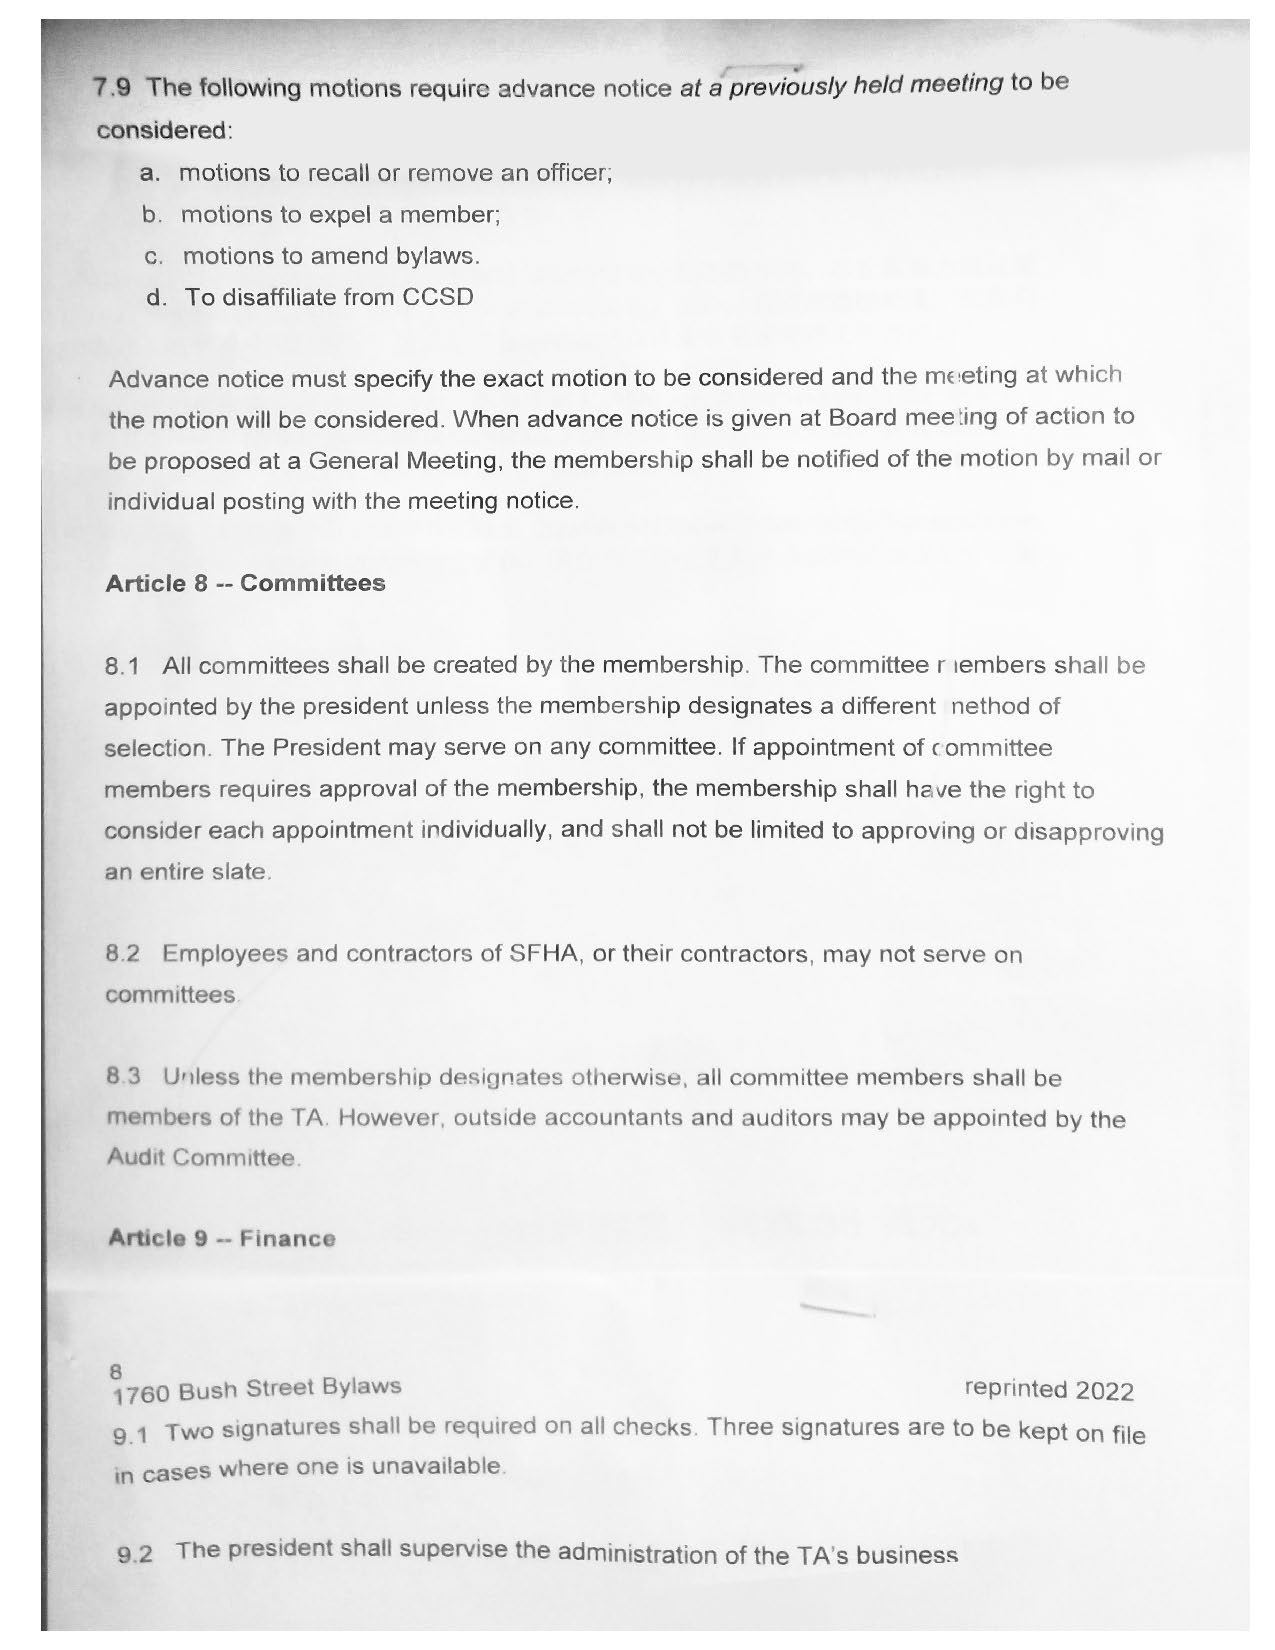
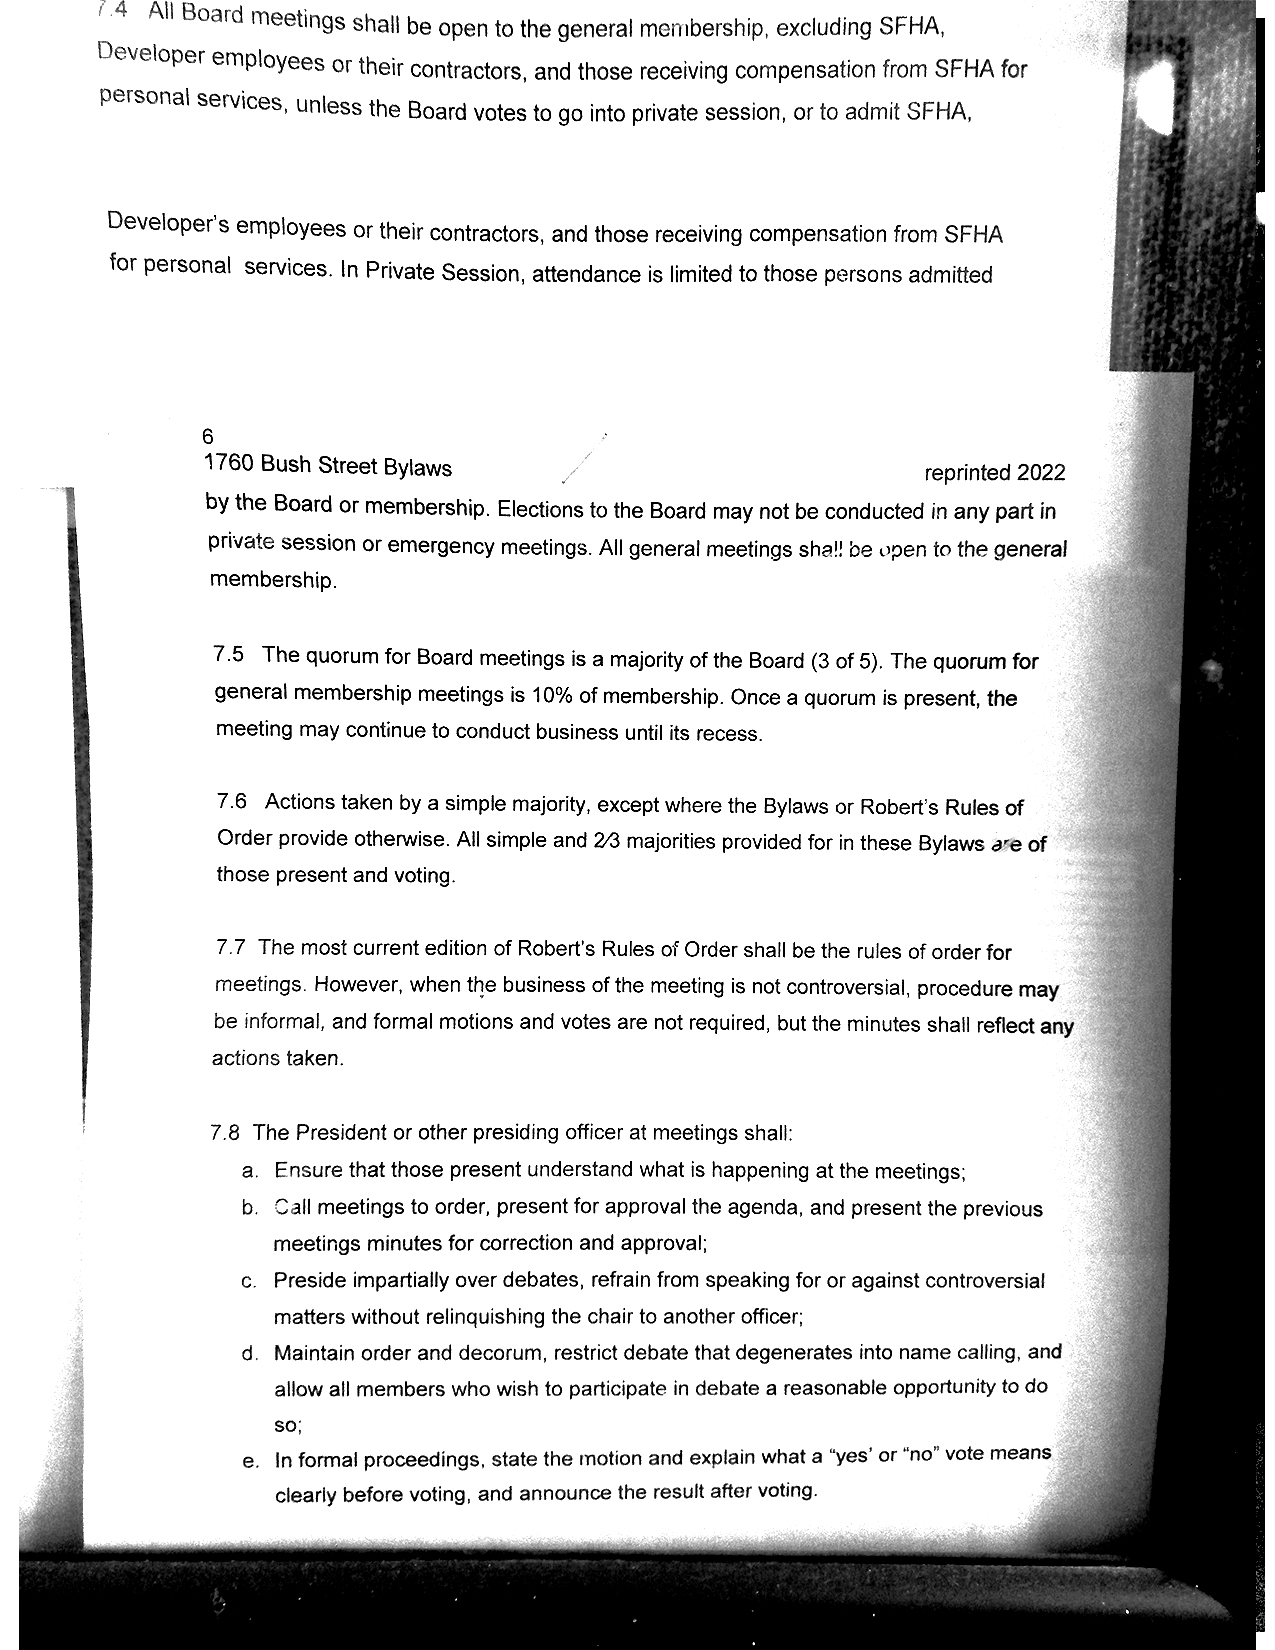
added files
updated info

diff --git a/MMMdearTenant01.html b/MMMdearTenant01.html
@@ -212,7 +212,10 @@ a, alert, alert-info {
 <!-- end letter -->
 
 <!-- Just the Facts -->
+<div class="container">
 
+  
+</div>
  <!-- 01 -->
 <div class="container">
   <div class="factCHECK">
@@ -335,9 +338,9 @@ a, alert, alert-info {
     <p>There was no secret ballot. We all saw Margo open and count them before putting them in the Ballot Box. That disqualifies as a secret ballot.</p>
     <p>The Ballot Box cost the Tenant Association $500. Why did Margo count the votes before putting them in the Ballot Box?</p>
     <p>Leesa was paid for the last Nomination meeting. Will Margo pay herself for this Election meeting?</p>
-    <p>Margo posted the results of the Election and illegally fired Angel the same night. When asked about it, Angel said "No comment." As a Resident who's known Margo for some time now, this is what Margo does when people challenge her or don't agree with everything she does.</p>
+    <p>Margo posted the results of the Election & illegally fired Angel the same night. When asked about it, Angel said "No comment." As a Resident who's known Margo for some time now, this is what Margo does when people challenge her or don't agree with everything she does.</p>
     <ul>
-      <li>"Firing" Angel actually violates your rights to a free and fair election.<br /><span style="font-style: italic;">Was the firing because Margo cannot bend Angel to her will?</span></li>
+      <li>"Firing" Angel actually violates your rights to a free and fair election.<br /><span style="font-style: italic;">Was the firing because Angel challenged Margo's autocratic governing style?</span></li>
       <li>Margo won't allow Angel to have the bank statements in order to do the Ledger, so he cannot be held accountable for not performing Treasurer duties</li>
       <li>Margo is targeting me because<br /><span style="font-style: italic;">I had questions about her RCA Proposal that went unanswered, so I told her I could not endorse it without learning more</span></li>
     </ul>
@@ -361,8 +364,8 @@ a, alert, alert-info {
     </div>
   </div><div class="row"><p>&nbsp;</p></div>
 
-  <!-- 13 -->
-   <a id="13"></a>
+  <!-- 10b -->
+   <a id="10b"></a>
    <div class="factCHECK">
     <h4><strong>What is Canvassing?</strong></h4>
     <p><strong>Unprotected Canvasing is allowed</strong> at 1760 Bush. Until an official policy is established, anyone can knock on your door claiming to be part of the Tenant's Association and offer you gifts or other rewards for supporting a particular action of the TA or in consideration for a candidate .</p>
@@ -417,35 +420,16 @@ a, alert, alert-info {
       <a href="#022"><button type="button" class="btn btn-warning" style="box-shadow: 0 0 6px;">BACK TO LETTER</button></a>
     </div>
   </div><div class="row"><p>&nbsp;</p></div>
-  <div class="factCHECK">
-    <h4>here</h4>
-    <p>here</p>
-    <div class="text-center">
-      <a href="#022"><button type="button" class="btn btn-warning" style="box-shadow: 0 0 6px;">BACK TO LETTER</button></a>
-    </div>
-  </div><div class="row"><p>&nbsp;</p></div>
-  <div class="factCHECK">
-    <h4>here</h4>
-    <p>here</p>
-    <div class="text-center">
-      <a href="#022"><button type="button" class="btn btn-warning" style="box-shadow: 0 0 6px;">BACK TO LETTER</button></a>
-    </div>
-  </div><div class="row"><p>&nbsp;</p></div>
-  <div class="factCHECK">
-    <h4>here</h4>
-    <p>here</p>
-    <div class="text-center">
-      <a href="#022"><button type="button" class="btn btn-warning" style="box-shadow: 0 0 6px;">BACK TO LETTER</button></a>
-    </div>
-  </div><div class="row"><p>&nbsp;</p></div>
-  <div class="factCHECK">
-    <h4>here</h4>
-    <p>here</p>
-    <div class="text-center">
-      <a href="#022"><button type="button" class="btn btn-warning" style="box-shadow: 0 0 6px;">BACK TO LETTER</button></a>
-    </div>
-  </div>
 
+  <!-- saving one for template 
+  <div class="factCHECK">
+    <h4>here</h4>
+    <p>here</p>
+    <div class="text-center">
+      <a href="#022"><button type="button" class="btn btn-warning" style="box-shadow: 0 0 6px;">BACK TO LETTER</button></a>
+    </div>
+  </div><div class="row"><p>&nbsp;</p></div> -->
+  
 
 </div>
 
@@ -458,12 +442,7 @@ text-align: center; background-color: #999999; color: white; margin-top: 40px; m
   </div>
   <div class="container" style="text-align: center">
     <p><br /><a href="mailto:wethepeopleof1760@gmail.com" style="color: white;">wethepeopleof1760@gmail.com</a></p>
-
   </div>
 </div>
-
-</p>
-
-
 </body>
 </html>

diff --git a/TAdocs/1760_Bylaw.html b/TAdocs/1760_Bylaw.html
@@ -49,14 +49,12 @@
             <p>&nbsp;</p>
             <p><a href="#" target="_new"><img src="../imgz1760/bylaws05282024/May24_posted_pg_05.jpg" alt="" style="max-width: 100%; box-shadow: 0 0 9px;"></a></p>
             <p>&nbsp;</p>
-            <hr />
-            <p>Articles 7 - Missing Sections 7.4, 7.5, 7.6, 7.7, 7.8</p>
-            <hr />
             <p><a href="#" target="_new"><img src="../imgz1760/bylaws05282024/May24_posted_pg_06.jpg" alt="" style="max-width: 100%; box-shadow: 0 0 9px;"></a></p>
             <p>&nbsp;</p>
             <p><a href="#" target="_new"><img src="../imgz1760/bylaws05282024/May24_posted_pg_07.jpg" alt="" style="max-width: 100%; box-shadow: 0 0 9px;"></a></p>
             <p>&nbsp;</p>
             <p><a href="#" target="_new"><img src="../imgz1760/bylaws05282024/May24_posted_pg_08.jpg" alt="" style="max-width: 100%; box-shadow: 0 0 9px;"></a></p>
+            <p><a href="#" target="_new"><img src="../imgz1760/bylaws05282024/May24_posted_pg_09.jpg" alt="" style="max-width: 100%; box-shadow: 0 0 9px;"></a></p>
         </div>
         <!--               ~~~~~~~     above split is on left, below split is right side  -->
         <div class="col-sm-6" style="background-color:pink;">

diff --git a/1760facts.css b/1760facts.css
@@ -7,6 +7,7 @@ body {
     box-shadow: 0 0 9px;
 }
 
+/* footer */
 /* fact bubbles */
 /* RED */
 .bubblE {
@@ -124,6 +125,7 @@ body {
     border: 1px solid rgb(199, 3, 3); 
     border-radius: 3px;
     padding: 10px;
+    margin-left: -15px;
     box-shadow: 0 0 6px;
 }
 .factCHECK h4 {
